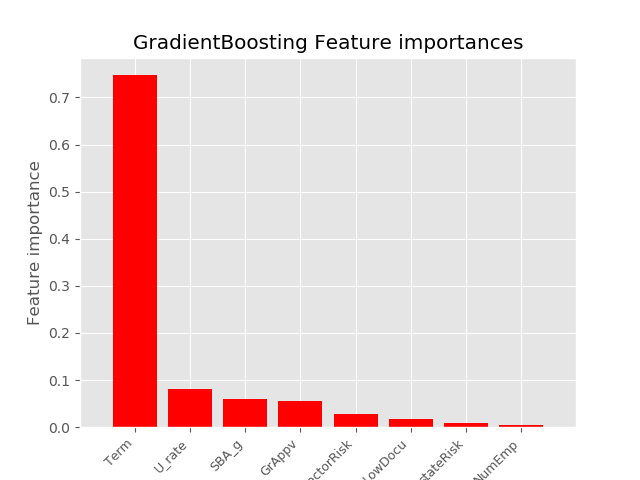
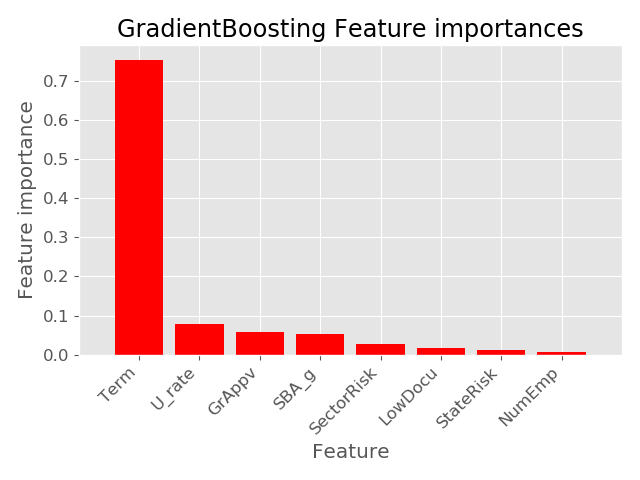
feature importance

diff --git a/src/model.py b/src/model.py
@@ -2,7 +2,7 @@ import numpy as np
 import pandas as pd
 import matplotlib.pyplot as plt
 plt.style.use('ggplot')
-plt.rcParams.update({'font.size': 10})
+plt.rcParams.update({'font.size': 12})
 from time import time
 
 from sklearn.preprocessing import StandardScaler 
@@ -11,6 +11,7 @@ from sklearn.naive_bayes import MultinomialNB
 from sklearn.linear_model import LogisticRegression
 from sklearn.metrics import confusion_matrix, accuracy_score, precision_score, recall_score
 from sklearn.ensemble import RandomForestClassifier, GradientBoostingClassifier
+from sklearn.inspection import plot_partial_dependence
 #from sklearn.externals import joblib
 
 # class DefaultModeler(object):
@@ -84,18 +85,15 @@ def print_model_metrics(model, X_train, X_test, y_train, y_test):
 
 def plot_feature_importance(model, X, col_names):
     importances = model.feature_importances_
-    #std = np.std([tree.feature_importances_ for tree in model.estimators_], axis=0)
     indices = np.argsort(importances)[::-1]
     name = model.__class__.__name__.replace('Classifier','')
-    # plt.bar(range(X.shape[1]), importances[indices],
-    #     color="r", yerr=std[indices], align="center")
     plt.bar(range(X.shape[1]), importances[indices], color="r")
     plt.title("{} Feature importances".format(name))
-    plt.xlabel("Feature number")
+    plt.xlabel("Feature")
     plt.ylabel("Feature importance")
-    plt.xticks(range(X.shape[1]), col_names[indices], rotation=45, fontsize=8, ha='right')
-
+    plt.xticks(range(X.shape[1]), col_names[indices], rotation=45, fontsize=12, ha='right')
     plt.xlim([-1, X.shape[1]])
+    plt.tight_layout()
 
 def gridsearch_with_output(estimator, parameter_grid, X_train, y_train):
     '''
@@ -124,8 +122,8 @@ def gridsearch_with_output(estimator, parameter_grid, X_train, y_train):
 
 def load_split_data():
     df_loan = pd.read_pickle('data/loan_data')
-    feature_choice = ['Term', 'U_rate', 'SBA_g', 'GrAppv', 'SectorRisk', 'Default']
-    df_loan = df_loan[feature_choice]
+    # feature_choice = ['Term', 'U_rate', 'SBA_g', 'GrAppv', 'SectorRisk', 'Default']
+    # df_loan = df_loan[feature_choice]
     y = df_loan.pop('Default').values
     X = df_loan.values
     col_names = df_loan.columns
@@ -134,30 +132,30 @@ def load_split_data():
 
 if __name__ == "__main__":
 
-    # X_model and y_model to be used in training the model, the holdout sets for model evaluation
+    ### X_model and y_model to be used in training the model, the holdout sets for final model evaluation
     (X_model, X_holdout, y_model, y_holdout), col_names = load_split_data()
 
     ### Rely on class_weight option to balance the data
     # X_train, X_test, y_train, y_test = train_test_split(X_model, y_model, test_size=0.2, random_state=42, stratify=y_model)
 
-    # # Naive Bayes Model
+    # ### Naive Bayes Model
     # # nb_model = MultinomialNB(alpha=1.0, fit_prior=True, class_prior=None)
     # # print_model_metrics(nb_model, X_train, X_test, y_train, y_test)
 
-    # # Logistic Model
+    # ### Logistic Model
     # lg_model = LogisticRegression(solver='lbfgs', class_weight='balanced')
     # print_model_metrics(lg_model, X_train, X_test, y_train, y_test)
 
-    # # Randome Forest model
+    # ### Randome Forest model
     # rfc = RandomForestClassifier(n_estimators=300, n_jobs=-1, random_state=2, class_weight='balanced')
     # print_model_metrics(rfc, X_train, X_test, y_train, y_test)
 
-    # # Gradient Descend Boost model 
+    # ### Gradient Descend Boost model 
     # gbc = GradientBoostingClassifier(learning_rate=0.2, n_estimators=300, random_state=2,
     #                                 min_samples_leaf=200, max_depth=3, max_features=3)
     # print_model_metrics(gbc, X_train, X_test, y_train, y_test)
     
-    # # AdaBoost Model
+    # ### AdaBoost Model
     # abc = GradientBoostingClassifier(learning_rate=0.2, loss='exponential', n_estimators=300, random_state=2,
     #                                 min_samples_leaf=200, max_depth=3, max_features=3)
     # print_model_metrics(abc, X_train, X_test, y_train, y_test)
@@ -171,17 +169,35 @@ if __name__ == "__main__":
     # lg_model = LogisticRegression(solver='lbfgs')
     # print_model_metrics(lg_model, X_train, X_test, y_train, y_test)
 
-    # Randome Forest model
-    # rfc = RandomForestClassifier(n_estimators=300, n_jobs=-1, random_state=2,)
-    # print_model_metrics(rfc, X_train, X_test, y_train, y_test)
+    ### Randome Forest model - feature importance
+    rfc = RandomForestClassifier(n_estimators=300, n_jobs=-1, random_state=2,)
+    print_model_metrics(rfc, X_train, X_test, y_train, y_test)
+    names = ['StateRisk', 'SectorRisk','Term', 'NumEmp', 'LowDocu', 'GrAppv', 'SBA_g','U_rate']
+    """Below code would hang when running. No error msg.  Need to investigate
+    # features = [2, 5, 7, 3, 6]
+    # plot_partial_dependence(rfc, X_train, features=features, feature_names=names) 
+    # fig = plt.gcf()
+    # fig.set_size_inches(11,8)
+    # plt.tight_layout()
+    # plt.savefig('images/rf_partDepend.png')
+    # plt.close()
+    """
     # plot_feature_importance(rfc, X_sampled, col_names)
     # plt.savefig('images/rfc_feature_importances.png')
     # plt.close()
 
-    # Gradient Descend Boost model 
-    # gbc = GradientBoostingClassifier(learning_rate=0.2, n_estimators=300, random_state=2,
-    #                                 min_samples_leaf=200, max_depth=3, max_features=3)
-    # print_model_metrics(gbc, X_train, X_test, y_train, y_test)
+
+    ### Gradient Boost model - feature importance
+    gbc = GradientBoostingClassifier(learning_rate=0.2, n_estimators=300, random_state=2,
+                                    min_samples_leaf=200, max_depth=3, max_features=3)
+    print_model_metrics(gbc, X_train, X_test, y_train, y_test)
+    features = [2, 7, 5, 6, 1]
+    plot_partial_dependence(gbc, X_train, features=features, feature_names=names) 
+    fig = plt.gcf()
+    fig.set_size_inches(11,8)
+    plt.tight_layout()
+    plt.savefig('images/gbc_partDepend.png')
+    plt.close()
     # plot_feature_importance(gbc, X_sampled, col_names)
     # plt.savefig('images/gbc_feature_importances.png')
     # plt.close()
@@ -194,16 +210,16 @@ if __name__ == "__main__":
     ## Reduce model to 5 variables: Term, U_rate, SBA_g, GrAppv, Sector_Risk
     ## Conduct gridSearch to find the best fitting gbc model
 
-    gradient_boosting_grid = {'learning_rate': [0.2, 0.1, 0.05],
-                              'max_depth': [3, 5],
-                              'min_samples_leaf': [50, 200],
-                              'max_features': [2, 3],
-                              'n_estimators': [300, 500],
-                              'random_state': [2]}
-    ts = time()
-    gdbr_best_params, gdbr_best_model = gridsearch_with_output(GradientBoostingClassifier(), 
-                                                               gradient_boosting_grid, 
-                                                               X_train, y_train)
-    te= time()
-    print("Time passed:", te-ts)
+    # gradient_boosting_grid = {'learning_rate': [0.2, 0.1, 0.05],
+    #                           'max_depth': [3, 5],
+    #                           'min_samples_leaf': [50, 200],
+    #                           'max_features': [2, 3],
+    #                           'n_estimators': [300, 500],
+    #                           'random_state': [2]}
+    # ts = time()
+    # gdbr_best_params, gdbr_best_model = gridsearch_with_output(GradientBoostingClassifier(), 
+    #                                                            gradient_boosting_grid, 
+    #                                                            X_train, y_train)
+    # te= time()
+    # print("Time passed:", te-ts)
     

diff --git a/README.md b/README.md
@@ -208,7 +208,7 @@ The ultimate goal of this study is to have a model that has good predictive powe
 
 ### 4.1. Sampling <a name="sample"></a>
 
-Before hopping into the modeling topic, there is one last decison about the feature dataset to make.  The data cleaning and feature engineering conducted in the previous two sections result in a loan dataset that has 887,382 observations.  Each observation has 9 attributes with the 9th being the loan defaulted or not.  The rest 8 attributes are the potential explanatory variables. A deeper look at the data reveals that the classes are not balanced.  The minority class (which is also the event we try to identify) takes about 20% of the 887,382 observations.  
+Before hopping into the modeling topic, there is one last decison about the dataset to make.  The data cleaning and feature engineering conducted in the previous two sections result in a loan dataset that has 887,382 observations.  Each observation has 9 attributes with the 9th being the loan defaulted or not.  The rest 8 attributes are the potential explanatory variables. A deeper look at the data reveals that the classes are not balanced.  The minority class (which is also the event we try to identify) takes about 20% of the 887,382 observations.  
 
 To solve the imbalanced classes problem, two options are considered in the study:
 
@@ -237,6 +237,22 @@ Both of these options are tried on four types of models: Logistic Regression, Ra
 |    Recall           |        0.763 |       0.900 |
 |    Accuracy         |        0.934 |       0.908 |
 
+Comparing the model performance metrics between the two sampling options, it is easy to see that the Undersample method does matter in the great majority of cases.  Therefore this option is chosen.  Amongst the model selections, a linear model like Logistic Regression performs significantly worse than the other three non-linear models.  Out of the three non-linear models, performance is pretty much on-par with each other.  In the next modeling section, I will use both Random Forest and Gradient Boost to identify features of importance.   
+
 ### 4.2. Modeling & Comparison <a name="compare"></a>
+
+With the resampled data and original 8 features, a Random Forest model and a Gradient Boost model are fitted separately.  The goal is see if both models will identify the same set of important features
+
+* Random Forest Model - as the below chart indicates, the most imoportant feature in predicting loan default risk is loan term ('Term'), explaining about 58% of the information gain.  This is followed by gross loan amount ('GrAppv'), the unemployment rate ('U_rate'), number of employees(NumEmp), SBA guaranteed percent('SBA_g'). 
+
+![](images/rfc_feature_importances.png)
+
+* Gradient Boost Model - Like the Random Forest model, the most important feature is 'Term', explaining almost 76% of the information gain.  In a decreasing order, the next four important features are 'U_rate', 'GrAppv', 'SBA_g', and 'SectorRisk'.  There is actually a very good overlap between the two models. Four out of the five most important features are the same.  
+
+![](images/gbc_feature_importances.png)
+
+The below chart shows the partial dependence plot on the first five important features for the Gradient Boost model. 
+
+![](images/gbc_partDepend.png)
 
 ## 5. Results <a name="result"></a>
